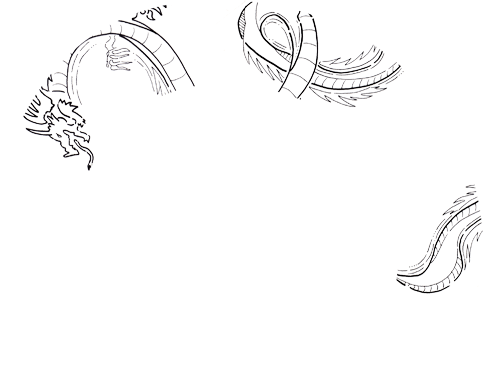
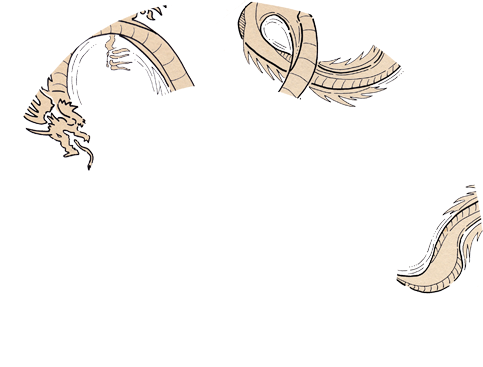
dragon background working

diff --git a/src/Games/Oca/Oca.cpp b/src/Games/Oca/Oca.cpp
@@ -44,18 +44,9 @@ void Oca::reset(){
     loadPlaces("Oca/config.xml");
     
     dragonBackground.set( places[25]->getBoundingBox() );
-    dragonBackground.begin();
-    ofPushMatrix();
-    ofTranslate(-places[25]->getBoundingBox().x, -places[25]->getBoundingBox().y);
-    ofClear(0,255);
-    ofSetColor(255,255);
-    ofBeginShape();
-    for(int i = 0; i < places[25]->size(); i++){
-        ofVertex( places[25]->getVertices()[i] );
-    }
-    ofEndShape();
-    ofPopMatrix();
-    dragonBackground.end();
+    dragonBackground.setZoom(60);
+    dragonBackground.clear();
+    
     
     ficha.pos = places[0]->getBoundingBox().getCenter();
     ficha.placeN = 0;
@@ -130,6 +121,22 @@ void Oca::update(){
         }
     }
 
+    //  Dragon Background 
+    //
+    dragonBackground.setFade( 0.2 + (1.0- places[25]->getState() ) *0.8  );
+    if (places[25]->getState() < 0.01)
+        dragonBackground.clear();
+    dragonBackground.begin();
+    ofTranslate(-places[25]->getBoundingBox().x,-places[25]->getBoundingBox().y);
+    ofPushMatrix();
+    ofClear(0,255);
+    ofSetColor(places[25]->getState()*200,255);
+    ofBeginShape();
+    for(int i = 0; i < places[25]->size(); i++)
+        ofVertex( places[25]->getVertices()[i] );
+    ofEndShape();
+    ofPopMatrix();
+    dragonBackground.end();
     dragonBackground.update();
 }
 
@@ -143,7 +150,13 @@ void Oca::render(){
     //
     background.draw(space);
     
+    ofEnableBlendMode(OF_BLENDMODE_MULTIPLY);
+    ofSetColor(255,255);
     dragonBackground.draw();
+    ofDisableBlendMode();
+    
+    ofSetColor(255, 255);
+    ofEnableBlendMode(OF_BLENDMODE_ALPHA);
     
     //  Draw Places
     //

diff --git a/src/Games/Shadows/AnimatedShadow.cpp b/src/Games/Shadows/AnimatedShadow.cpp
@@ -71,17 +71,6 @@ void AnimatedShadow::insertHole( ofPolyline &holeContourLine ){
     }
 }
 
-/*
-void AnimatedShadow::addIntervention( int _nId ){
-    if ((shapes.size() > 0) &&
-        (bActive) &&
-        (currentFrame < (shapes.size()*0.5) )){
-        
-        cout << "Intervention of blob " << _nId << " was added at frame " << currentFrame << " of blob " << getId() << endl;
-        shapes[currentFrame].interv = _nId;
-    }
-}*/
-
 bool AnimatedShadow::draw(){
     bool finish = true;
     

diff --git a/src/Games/Oca/Oca.h b/src/Games/Oca/Oca.h
@@ -12,6 +12,7 @@
 
 #include "Game.h"
 #include "TextSequencer.h"
+#include "InkAnimation.h"
 
 #include "Place.h"
 
